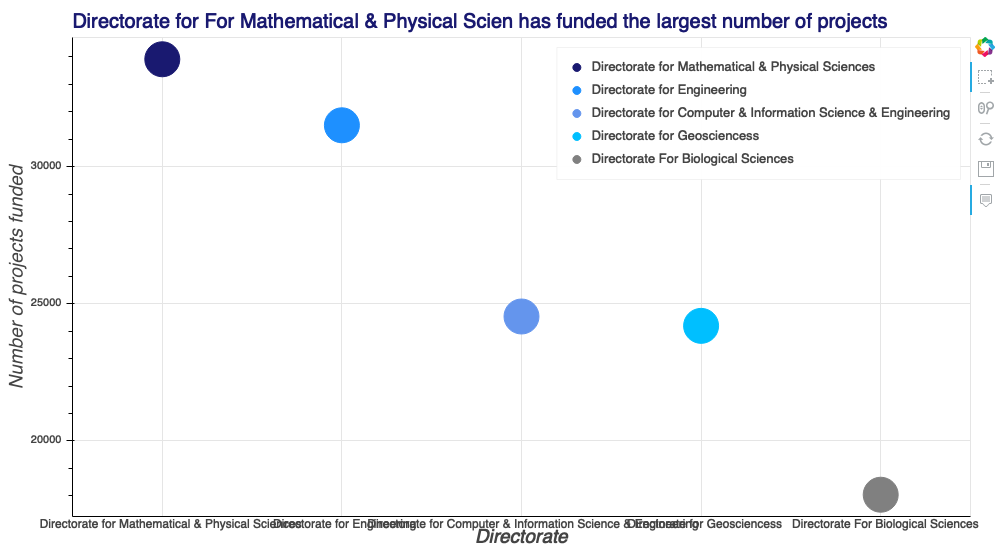
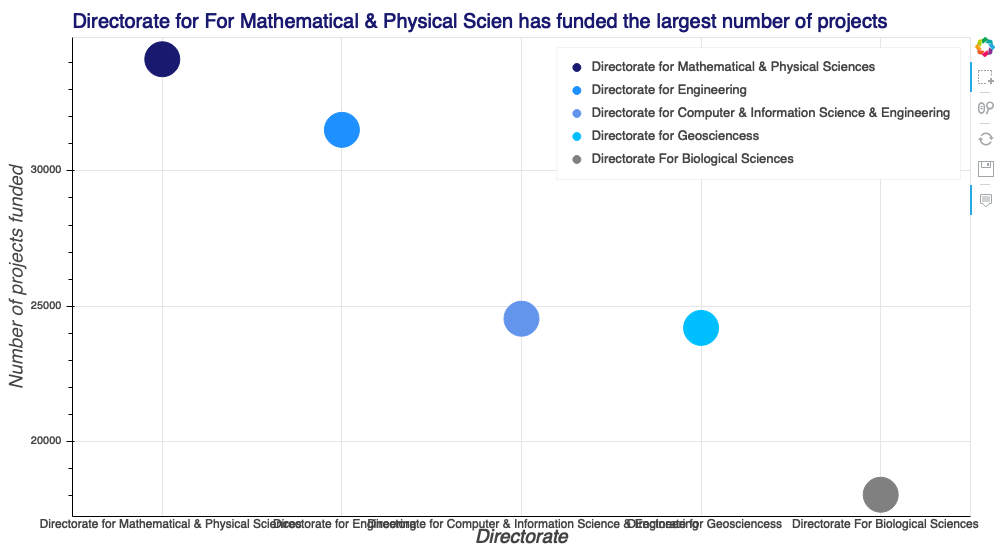
updated images

diff --git a/reports/figures/awardsbydir.html b/reports/figures/awardsbydir.html
@@ -35,14 +35,14 @@
           
           
             
-              <div class="bk-root" id="882fa5b7-a055-4849-82bd-92ecb02b2f3d" data-root-id="3867"></div>
+              <div class="bk-root" id="e5acc2dc-3909-4720-ad65-bf3aef60e9ba" data-root-id="1682"></div>
             
           
         
       
       
-        <script type="application/json" id="4315">
-          {"0b96578f-7fdc-4493-b10f-8d38fce765bb":{"roots":{"references":[{"attributes":{"below":[{"id":"3876","type":"CategoricalAxis"}],"center":[{"id":"3879","type":"Grid"},{"id":"3884","type":"Grid"},{"id":"3907","type":"Legend"}],"left":[{"id":"3880","type":"LinearAxis"}],"output_backend":"svg","plot_height":550,"plot_width":1000,"renderers":[{"id":"3898","type":"GlyphRenderer"}],"title":{"id":"3900","type":"Title"},"toolbar":{"id":"3889","type":"Toolbar"},"x_range":{"id":"3868","type":"FactorRange"},"x_scale":{"id":"3872","type":"CategoricalScale"},"y_range":{"id":"3870","type":"DataRange1d"},"y_scale":{"id":"3874","type":"LinearScale"}},"id":"3867","subtype":"Figure","type":"Plot"},{"attributes":{"fill_alpha":{"value":0.2},"fill_color":{"value":"#1f77b4"},"line_alpha":{"value":0.2},"line_color":{"value":"#1f77b4"},"size":{"units":"screen","value":35},"x":{"field":"NSF_org"},"y":{"field":"count"}},"id":"3897","type":"Circle"},{"attributes":{},"id":"3904","type":"CategoricalTickFormatter"},{"attributes":{"callback":null},"id":"3870","type":"DataRange1d"},{"attributes":{},"id":"3902","type":"BasicTickFormatter"},{"attributes":{},"id":"3877","type":"CategoricalTicker"},{"attributes":{"ticker":{"id":"3877","type":"CategoricalTicker"}},"id":"3879","type":"Grid"},{"attributes":{"fill_color":{"field":"NSF_org","transform":{"id":"3894","type":"CategoricalColorMapper"}},"line_color":{"field":"NSF_org","transform":{"id":"3894","type":"CategoricalColorMapper"}},"size":{"units":"screen","value":35},"x":{"field":"NSF_org"},"y":{"field":"count"}},"id":"3896","type":"Circle"},{"attributes":{"callback":null,"data":{"NSF_org":["Directorate for Mathematical &amp; Physical Sciences","Directorate for Engineering","Directorate for Computer &amp; Information Science &amp; Engineering","Directorate for Geosciencess","Directorate For Biological Sciences"],"count":[33910,31504,24536,24195,18041],"index":[0,1,2,3,4],"max":{"__ndarray__":"4FbVJqnn7z8DfLd54+TvPwN8t3nj5O8/7xkuF5bk7z/+ZIwPs9fvPw==","dtype":"float64","shape":[5]},"mean":{"__ndarray__":"RLST9rQ+5T+mTitIFn3hP/jmzghBwuM/Qd2Jrb0+5T9NKKT3VrfiPw==","dtype":"float64","shape":[5]},"median":{"__ndarray__":"5v3JKUtu5T8WsuNUpczgP6fTFcfckOM/IImo08u55T9NRGT9C0niPw==","dtype":"float64","shape":[5]}},"selected":{"id":"3920","type":"Selection"},"selection_policy":{"id":"3921","type":"UnionRenderers"}},"id":"3866","type":"ColumnDataSource"},{"attributes":{"text":"Directorate for For Mathematical &amp; Physical Scien has funded the largest number of projects","text_color":{"value":"MidnightBlue"},"text_font_size":{"value":"15pt"}},"id":"3900","type":"Title"},{"attributes":{"factors":["Directorate for Mathematical &amp; Physical Sciences","Directorate for Engineering","Directorate for Computer &amp; Information Science &amp; Engineering","Directorate for Geosciencess","Directorate For Biological Sciences"],"palette":["MidnightBlue","DodgerBlue","CornflowerBlue","DeepSkyBlue","grey"]},"id":"3894","type":"CategoricalColorMapper"},{"attributes":{"axis_label":"Number of projects funded","axis_label_text_font_size":{"value":"14pt"},"formatter":{"id":"3902","type":"BasicTickFormatter"},"ticker":{"id":"3881","type":"BasicTicker"}},"id":"3880","type":"LinearAxis"},{"attributes":{"axis_label":"Directorate","axis_label_text_font_size":{"value":"14pt"},"formatter":{"id":"3904","type":"CategoricalTickFormatter"},"major_label_text_font_size":{"value":"0pt"},"major_tick_line_color":{"value":null},"minor_tick_line_color":{"value":null},"ticker":{"id":"3877","type":"CategoricalTicker"}},"id":"3876","type":"CategoricalAxis"},{"attributes":{},"id":"3886","type":"WheelZoomTool"},{"attributes":{"callback":null,"overlay":{"id":"3906","type":"BoxAnnotation"}},"id":"3885","type":"BoxSelectTool"},{"attributes":{"data_source":{"id":"3866","type":"ColumnDataSource"},"glyph":{"id":"3896","type":"Circle"},"hover_glyph":null,"muted_glyph":null,"nonselection_glyph":{"id":"3897","type":"Circle"},"selection_glyph":null,"view":{"id":"3899","type":"CDSView"}},"id":"3898","type":"GlyphRenderer"},{"attributes":{},"id":"3887","type":"ResetTool"},{"attributes":{},"id":"3872","type":"CategoricalScale"},{"attributes":{"active_drag":"auto","active_inspect":"auto","active_multi":null,"active_scroll":"auto","active_tap":"auto","tools":[{"id":"3885","type":"BoxSelectTool"},{"id":"3886","type":"WheelZoomTool"},{"id":"3887","type":"ResetTool"},{"id":"3888","type":"SaveTool"},{"id":"3912","type":"HoverTool"}]},"id":"3889","type":"Toolbar"},{"attributes":{"label":{"field":"NSF_org"},"renderers":[{"id":"3898","type":"GlyphRenderer"}]},"id":"3908","type":"LegendItem"},{"attributes":{"items":[{"id":"3908","type":"LegendItem"}]},"id":"3907","type":"Legend"},{"attributes":{},"id":"3874","type":"LinearScale"},{"attributes":{"bottom_units":"screen","fill_alpha":{"value":0.5},"fill_color":{"value":"lightgrey"},"left_units":"screen","level":"overlay","line_alpha":{"value":1.0},"line_color":{"value":"black"},"line_dash":[4,4],"line_width":{"value":2},"render_mode":"css","right_units":"screen","top_units":"screen"},"id":"3906","type":"BoxAnnotation"},{"attributes":{},"id":"3881","type":"BasicTicker"},{"attributes":{"callback":null,"mode":"vline","tooltips":[["Directorate "," @NSF_org"],["Counts ","@count"],["Average funding","@mean"],["Max funding awarded ","@max"]]},"id":"3912","type":"HoverTool"},{"attributes":{},"id":"3888","type":"SaveTool"},{"attributes":{"callback":null,"factors":["Directorate for Mathematical &amp; Physical Sciences","Directorate for Engineering","Directorate for Computer &amp; Information Science &amp; Engineering","Directorate for Geosciencess","Directorate For Biological Sciences"]},"id":"3868","type":"FactorRange"},{"attributes":{},"id":"3920","type":"Selection"},{"attributes":{"dimension":1,"ticker":{"id":"3881","type":"BasicTicker"}},"id":"3884","type":"Grid"},{"attributes":{"source":{"id":"3866","type":"ColumnDataSource"}},"id":"3899","type":"CDSView"},{"attributes":{},"id":"3921","type":"UnionRenderers"}],"root_ids":["3867"]},"title":"Bokeh Application","version":"1.2.0"}}
+        <script type="application/json" id="2071">
+          {"25373691-c9cb-4908-aaf6-b0725dc1e832":{"roots":{"references":[{"attributes":{"below":[{"id":"1691","type":"CategoricalAxis"}],"center":[{"id":"1694","type":"Grid"},{"id":"1699","type":"Grid"},{"id":"1722","type":"Legend"}],"left":[{"id":"1695","type":"LinearAxis"}],"output_backend":"svg","plot_height":550,"plot_width":1000,"renderers":[{"id":"1713","type":"GlyphRenderer"}],"title":{"id":"1716","type":"Title"},"toolbar":{"id":"1704","type":"Toolbar"},"x_range":{"id":"1683","type":"FactorRange"},"x_scale":{"id":"1687","type":"CategoricalScale"},"y_range":{"id":"1685","type":"DataRange1d"},"y_scale":{"id":"1689","type":"LinearScale"}},"id":"1682","subtype":"Figure","type":"Plot"},{"attributes":{"text":"Directorate for For Mathematical &amp; Physical Scien has funded the largest number of projects","text_color":{"value":"MidnightBlue"},"text_font_size":{"value":"15pt"}},"id":"1716","type":"Title"},{"attributes":{"fill_alpha":{"value":0.2},"fill_color":{"value":"#1f77b4"},"line_alpha":{"value":0.2},"line_color":{"value":"#1f77b4"},"size":{"units":"screen","value":35},"x":{"field":"NSF_org"},"y":{"field":"count"}},"id":"1712","type":"Circle"},{"attributes":{"fill_color":{"field":"NSF_org","transform":{"id":"1709","type":"CategoricalColorMapper"}},"line_color":{"field":"NSF_org","transform":{"id":"1709","type":"CategoricalColorMapper"}},"size":{"units":"screen","value":35},"x":{"field":"NSF_org"},"y":{"field":"count"}},"id":"1711","type":"Circle"},{"attributes":{"ticker":{"id":"1692","type":"CategoricalTicker"}},"id":"1694","type":"Grid"},{"attributes":{"label":{"field":"NSF_org"},"renderers":[{"id":"1713","type":"GlyphRenderer"}]},"id":"1723","type":"LegendItem"},{"attributes":{},"id":"1687","type":"CategoricalScale"},{"attributes":{"axis_label":"Number of projects funded","axis_label_text_font_size":{"value":"14pt"},"formatter":{"id":"1719","type":"BasicTickFormatter"},"ticker":{"id":"1696","type":"BasicTicker"}},"id":"1695","type":"LinearAxis"},{"attributes":{"active_drag":"auto","active_inspect":"auto","active_multi":null,"active_scroll":"auto","active_tap":"auto","tools":[{"id":"1700","type":"BoxSelectTool"},{"id":"1701","type":"WheelZoomTool"},{"id":"1702","type":"ResetTool"},{"id":"1703","type":"SaveTool"},{"id":"1727","type":"HoverTool"}]},"id":"1704","type":"Toolbar"},{"attributes":{"dimension":1,"ticker":{"id":"1696","type":"BasicTicker"}},"id":"1699","type":"Grid"},{"attributes":{"callback":null,"mode":"vline","tooltips":[["Directorate "," @NSF_org"],["Counts ","@count"],["Average funding","@mean"],["Max funding awarded ","@max"]]},"id":"1727","type":"HoverTool"},{"attributes":{"axis_label":"Directorate","axis_label_text_font_size":{"value":"14pt"},"formatter":{"id":"1717","type":"CategoricalTickFormatter"},"major_label_text_font_size":{"value":"0pt"},"major_tick_line_color":{"value":null},"minor_tick_line_color":{"value":null},"ticker":{"id":"1692","type":"CategoricalTicker"}},"id":"1691","type":"CategoricalAxis"},{"attributes":{},"id":"1702","type":"ResetTool"},{"attributes":{},"id":"1703","type":"SaveTool"},{"attributes":{},"id":"1719","type":"BasicTickFormatter"},{"attributes":{},"id":"1689","type":"LinearScale"},{"attributes":{"source":{"id":"1681","type":"ColumnDataSource"}},"id":"1714","type":"CDSView"},{"attributes":{"callback":null},"id":"1685","type":"DataRange1d"},{"attributes":{},"id":"1737","type":"Selection"},{"attributes":{"items":[{"id":"1723","type":"LegendItem"}]},"id":"1722","type":"Legend"},{"attributes":{"factors":["Directorate for Mathematical &amp; Physical Sciences","Directorate for Engineering","Directorate for Computer &amp; Information Science &amp; Engineering","Directorate for Geosciencess","Directorate For Biological Sciences"],"palette":["MidnightBlue","DodgerBlue","CornflowerBlue","DeepSkyBlue","grey"]},"id":"1709","type":"CategoricalColorMapper"},{"attributes":{"callback":null,"data":{"NSF_org":["Directorate for Mathematical &amp; Physical Sciences","Directorate for Engineering","Directorate for Computer &amp; Information Science &amp; Engineering","Directorate for Geosciencess","Directorate For Biological Sciences"],"count":[34118,31513,24543,24202,18046],"index":[0,1,2,3,4],"max":[372455040,46379948,226551969,321644885,331228541],"mean":{"__ndarray__":"fj8zQ3JxHEHGEZTVAYYTQTgY0u4sAhxB90R06C5kH0F9RO5OAJYeQQ==","dtype":"float64","shape":[5]},"median":{"__ndarray__":"AAAAAMz/DkEAAAAAQHcLQQAAAACATxJBAAAAAOjlC0EAAAAATPgSQQ==","dtype":"float64","shape":[5]}},"selected":{"id":"1737","type":"Selection"},"selection_policy":{"id":"1736","type":"UnionRenderers"}},"id":"1681","type":"ColumnDataSource"},{"attributes":{"callback":null,"overlay":{"id":"1721","type":"BoxAnnotation"}},"id":"1700","type":"BoxSelectTool"},{"attributes":{},"id":"1717","type":"CategoricalTickFormatter"},{"attributes":{},"id":"1696","type":"BasicTicker"},{"attributes":{"data_source":{"id":"1681","type":"ColumnDataSource"},"glyph":{"id":"1711","type":"Circle"},"hover_glyph":null,"muted_glyph":null,"nonselection_glyph":{"id":"1712","type":"Circle"},"selection_glyph":null,"view":{"id":"1714","type":"CDSView"}},"id":"1713","type":"GlyphRenderer"},{"attributes":{},"id":"1736","type":"UnionRenderers"},{"attributes":{},"id":"1701","type":"WheelZoomTool"},{"attributes":{"callback":null,"factors":["Directorate for Mathematical &amp; Physical Sciences","Directorate for Engineering","Directorate for Computer &amp; Information Science &amp; Engineering","Directorate for Geosciencess","Directorate For Biological Sciences"]},"id":"1683","type":"FactorRange"},{"attributes":{"bottom_units":"screen","fill_alpha":{"value":0.5},"fill_color":{"value":"lightgrey"},"left_units":"screen","level":"overlay","line_alpha":{"value":1.0},"line_color":{"value":"black"},"line_dash":[4,4],"line_width":{"value":2},"render_mode":"css","right_units":"screen","top_units":"screen"},"id":"1721","type":"BoxAnnotation"},{"attributes":{},"id":"1692","type":"CategoricalTicker"}],"root_ids":["1682"]},"title":"Bokeh Application","version":"1.2.0"}}
         </script>
         <script type="text/javascript">
           (function() {
@@ -51,8 +51,8 @@
                 (function(root) {
                   function embed_document(root) {
                     
-                  var docs_json = document.getElementById('4315').textContent;
-                  var render_items = [{"docid":"0b96578f-7fdc-4493-b10f-8d38fce765bb","roots":{"3867":"882fa5b7-a055-4849-82bd-92ecb02b2f3d"}}];
+                  var docs_json = document.getElementById('2071').textContent;
+                  var render_items = [{"docid":"25373691-c9cb-4908-aaf6-b0725dc1e832","roots":{"1682":"e5acc2dc-3909-4720-ad65-bf3aef60e9ba"}}];
                   root.Bokeh.embed.embed_items(docs_json, render_items);
                 
                   }
